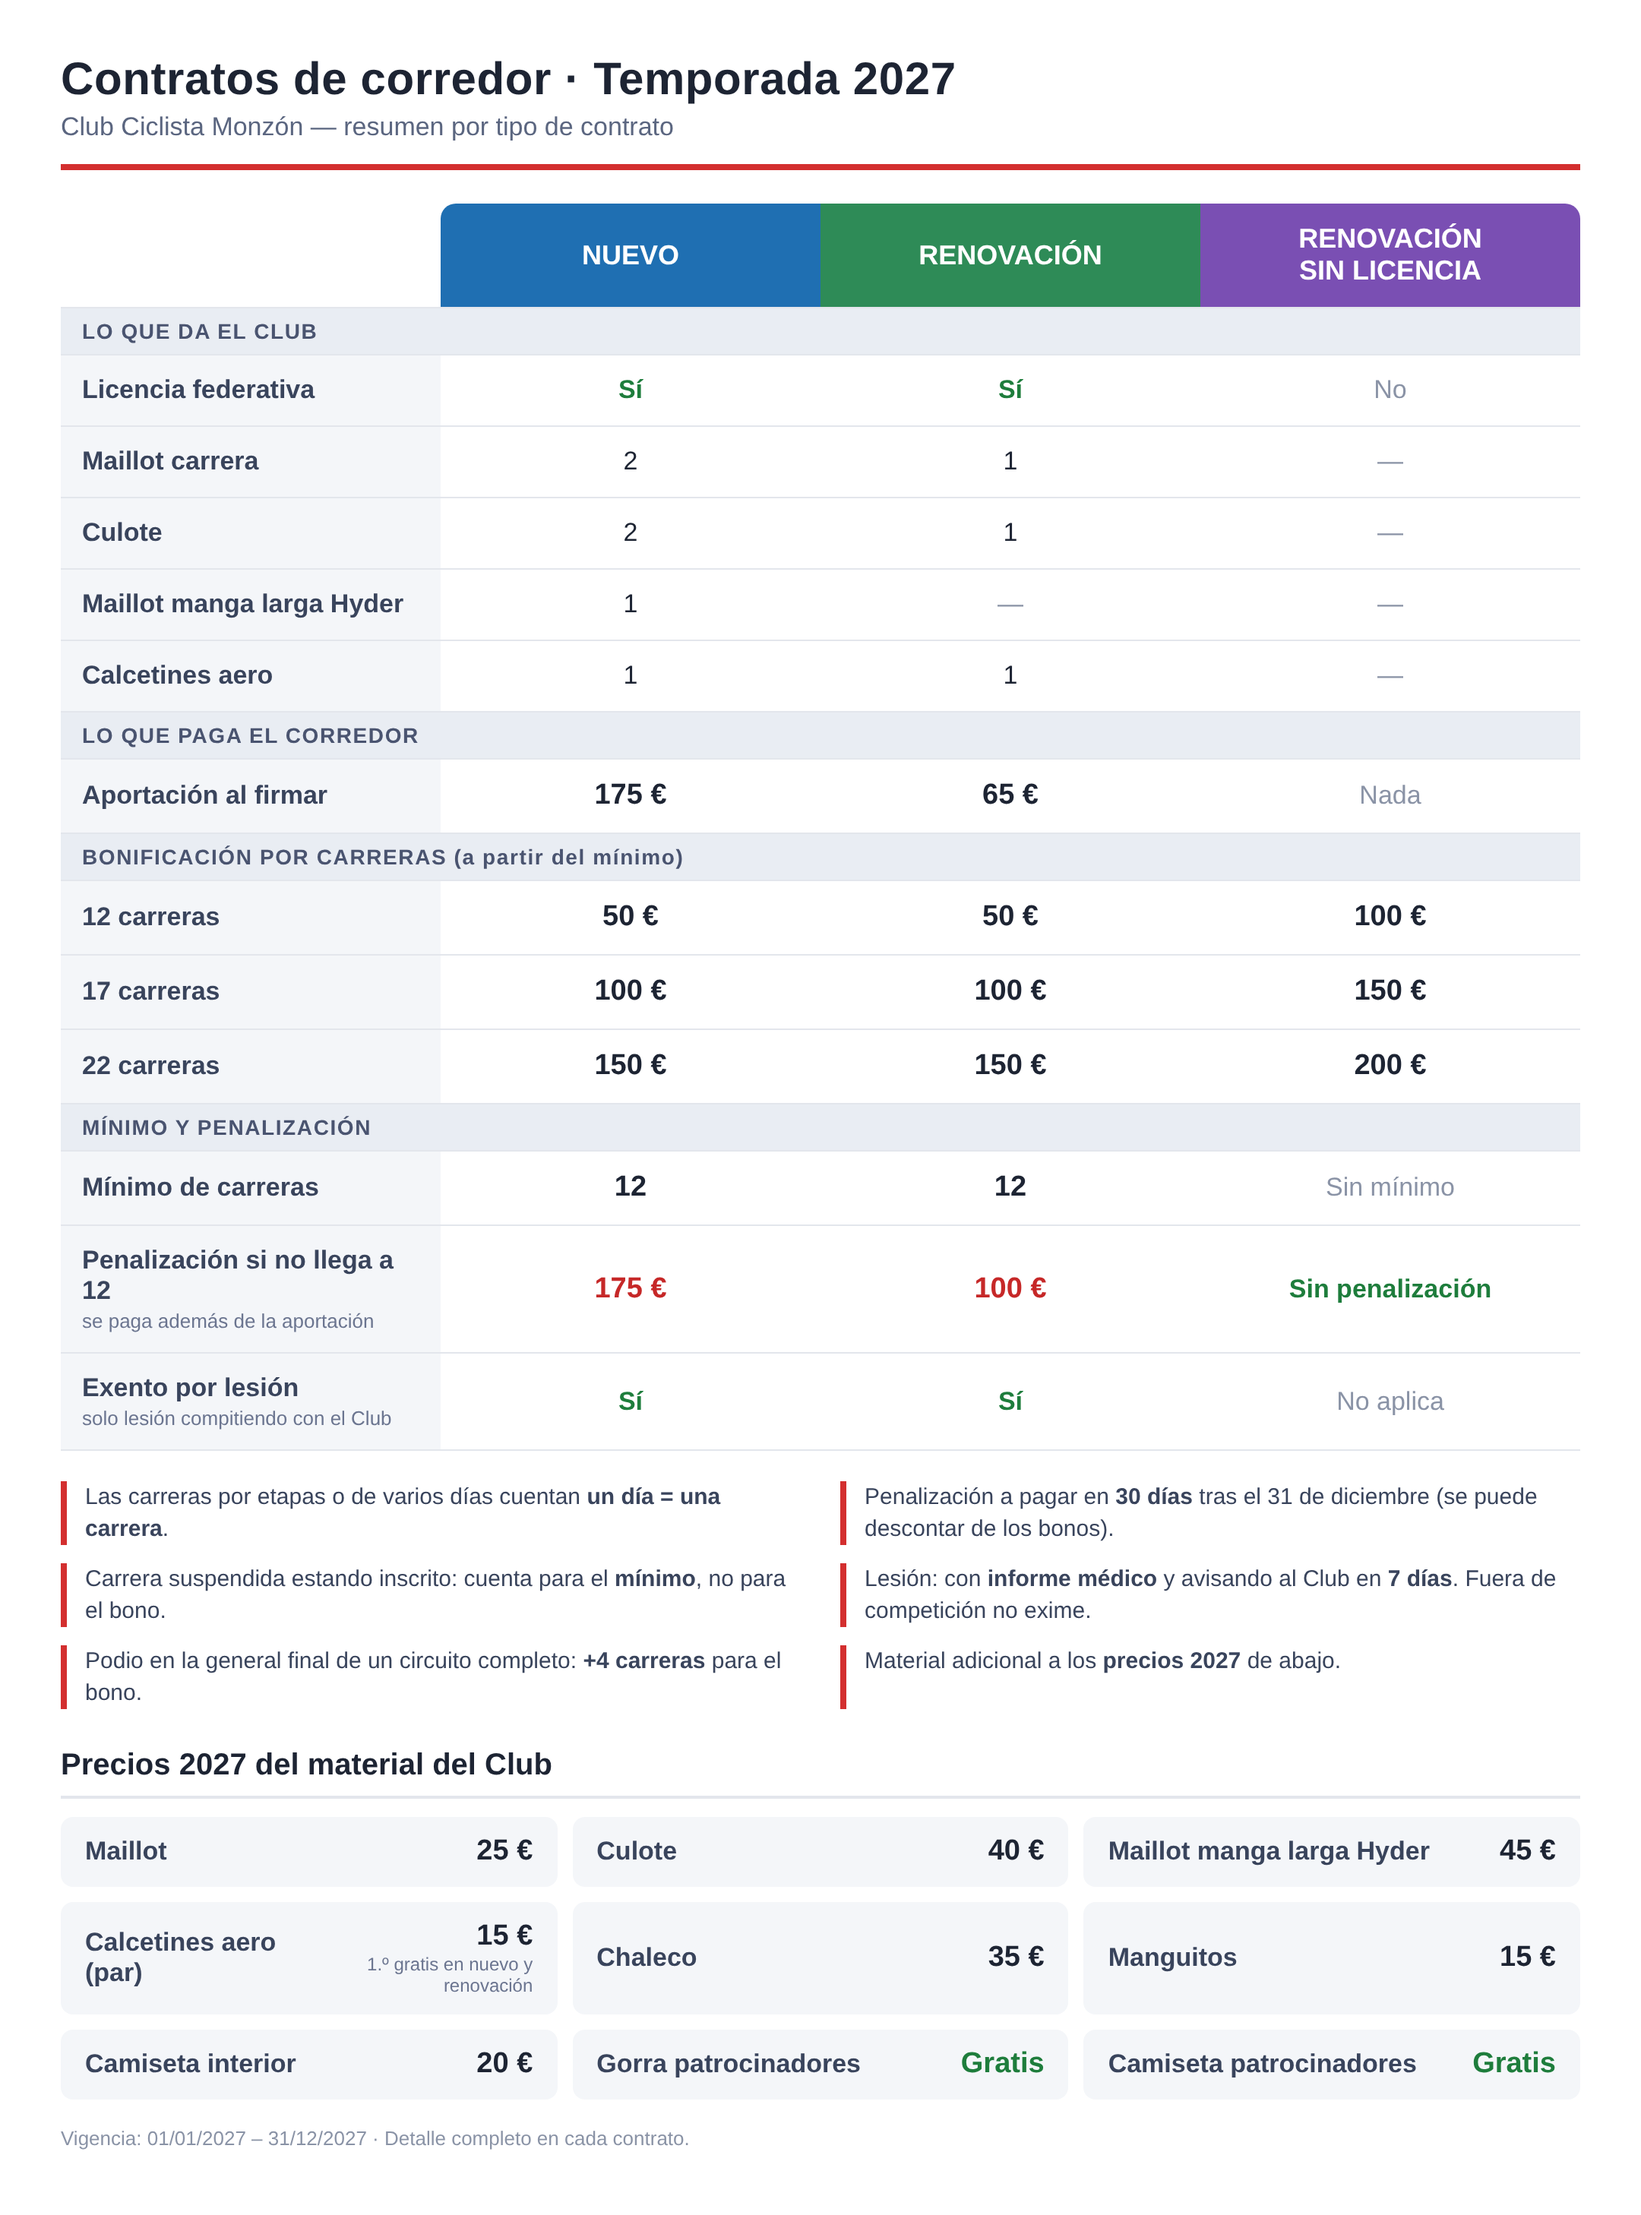
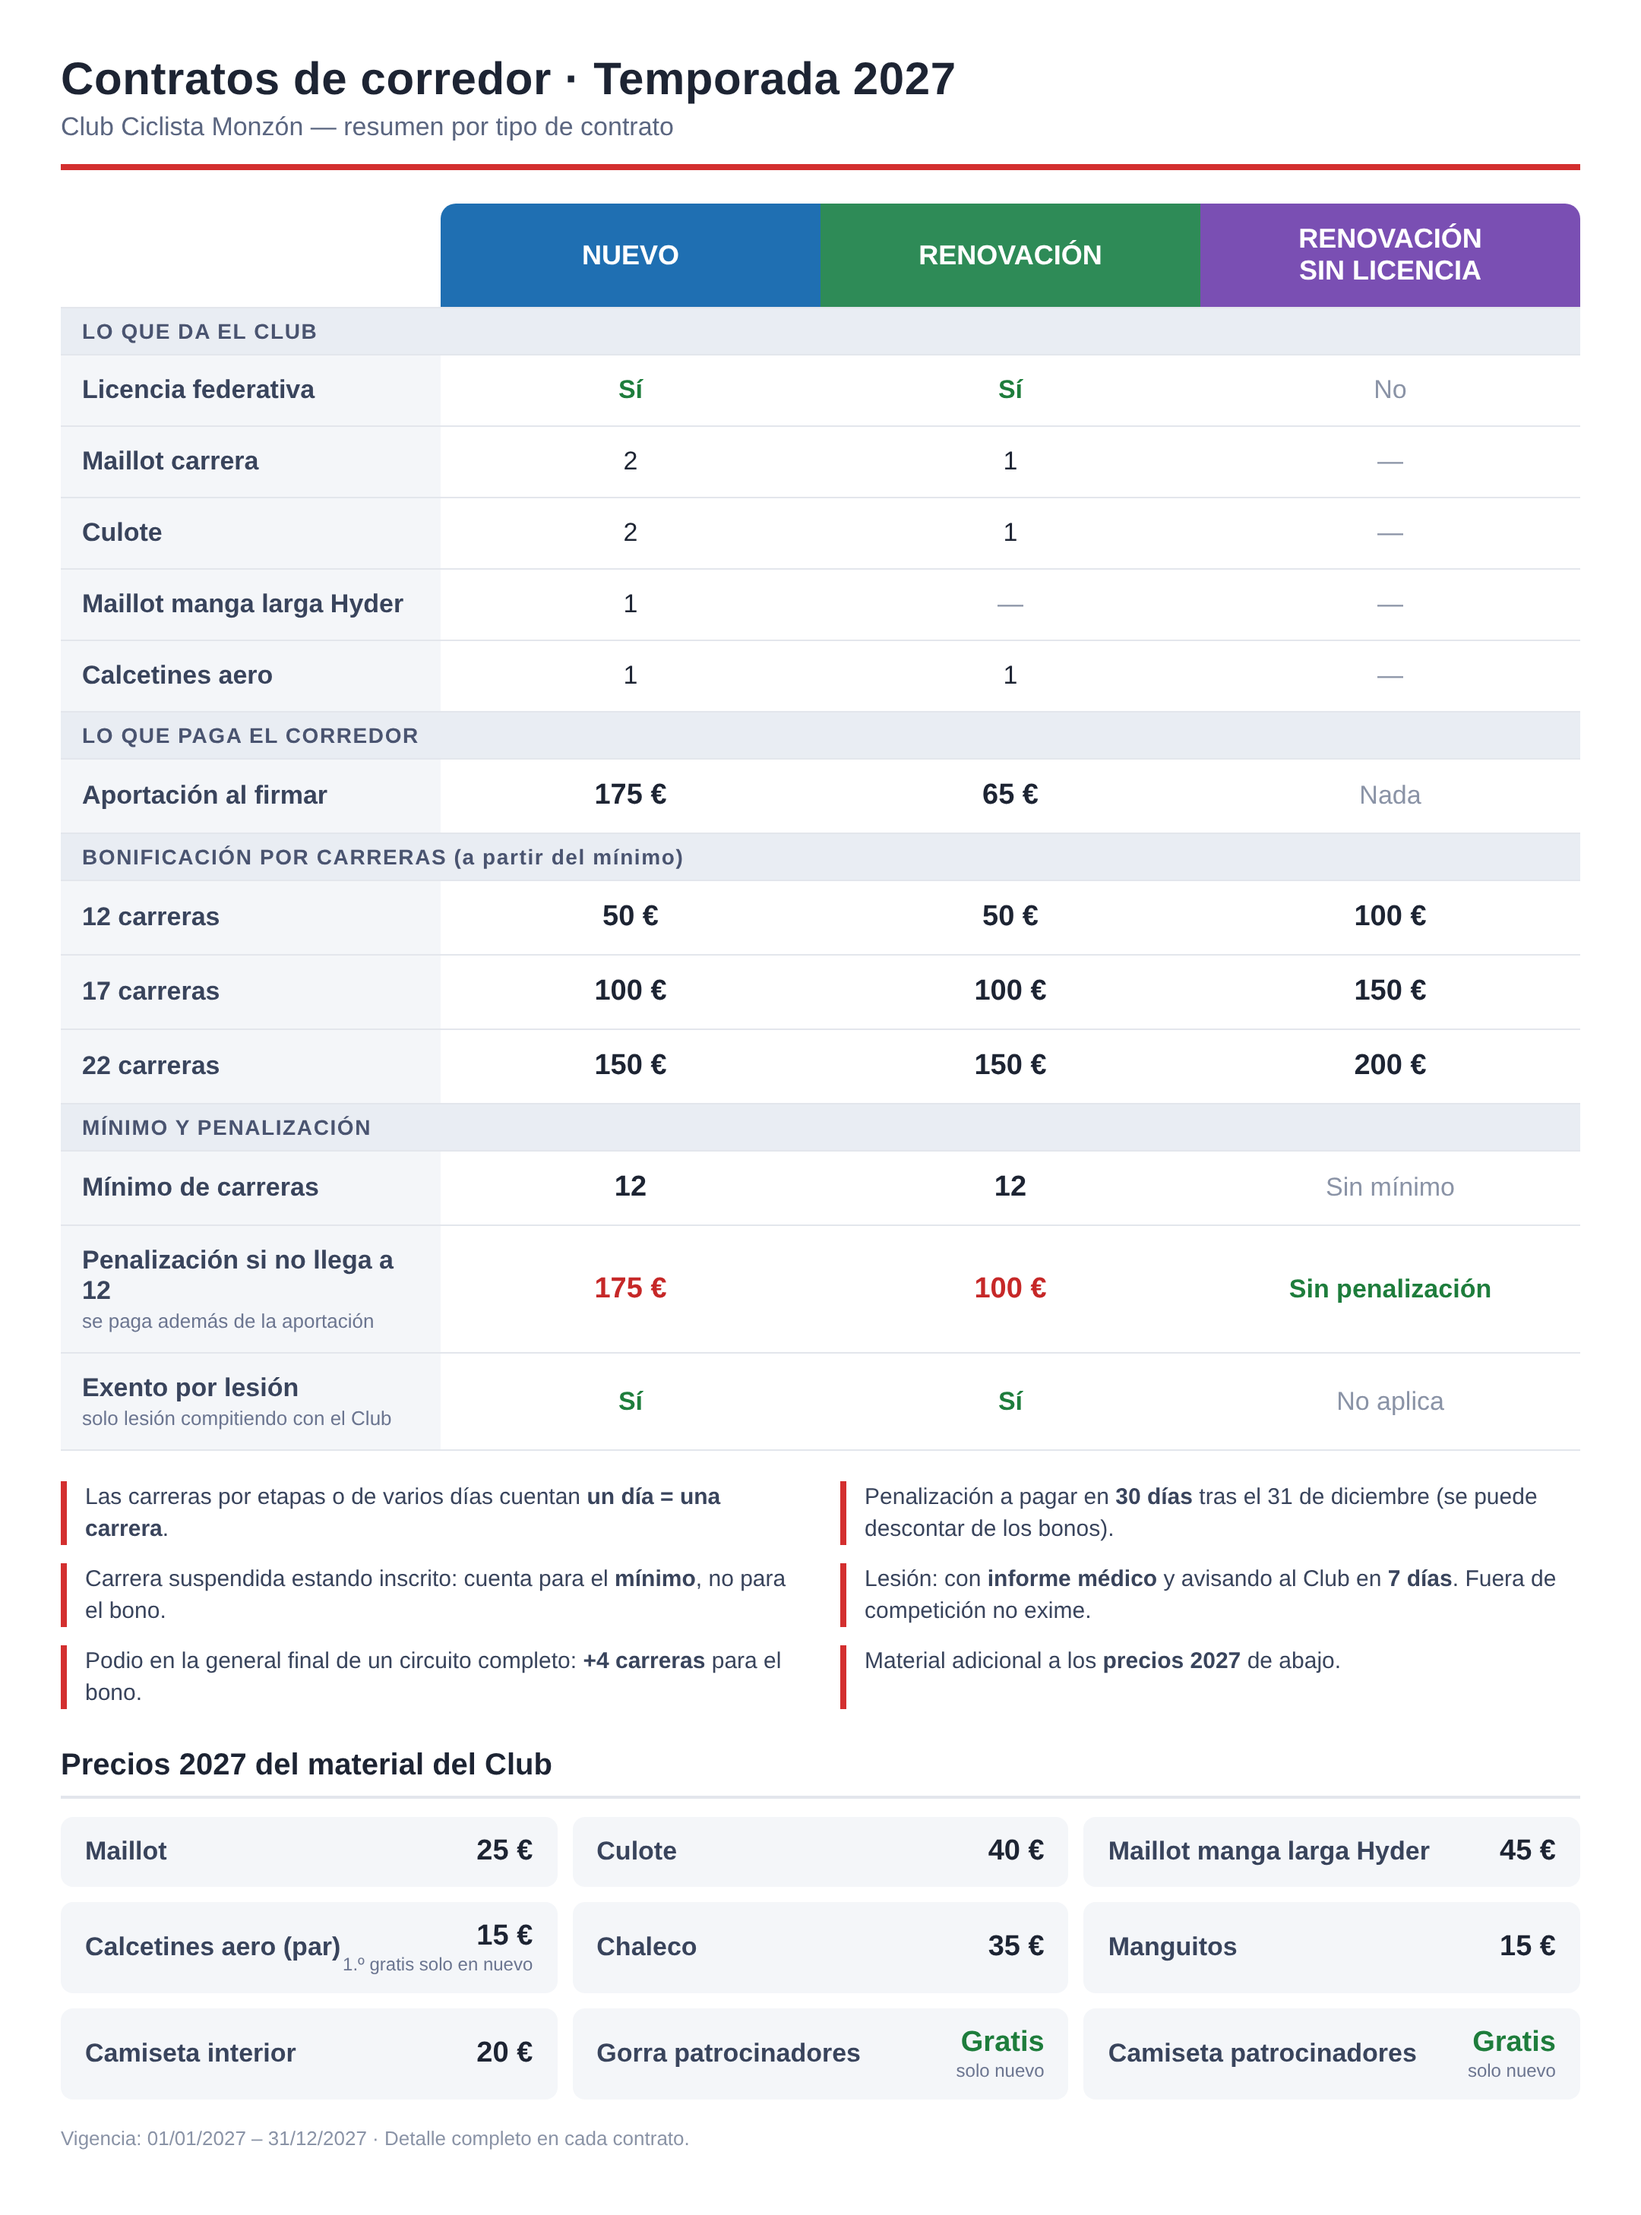
Contratos 2027: gorra, camiseta de patrocinadores y 1.er par de calcetines gratis solo en el contrato nuevo
Claude-Session: https://claude.ai/code/session_01K6kpA81o86cArr24SEaNxb

diff --git a/contratos/Acuerdo_Corredor_Renovacion_2027_CC_Monzon.html b/contratos/Acuerdo_Corredor_Renovacion_2027_CC_Monzon.html
@@ -51,10 +51,9 @@ table.precios td { padding: 3px 8px; }
 <li>Material adicional: el deportista podrá adquirir más prendas del Club a los precios de la temporada 2027 indicados a continuación.</li></ul>
 <table class="precios"><tr><th colspan="4">Precios 2027 del material del Club</th></tr>
 <tr><td>Maillot</td><td class="n">25 €</td><td>Culote</td><td class="n">40 €</td></tr>
-<tr><td>Maillot manga larga HYDER</td><td class="n">45 €</td><td>Calcetines aero (par)</td><td class="n">1.º gratis · 2.º 15 €</td></tr>
+<tr><td>Maillot manga larga HYDER</td><td class="n">45 €</td><td>Calcetines aero (par)</td><td class="n">15 €</td></tr>
 <tr><td>Chaleco</td><td class="n">35 €</td><td>Manguitos</td><td class="n">15 €</td></tr>
-<tr><td>Camiseta interior</td><td class="n">20 €</td><td>Gorra de patrocinadores</td><td class="n">Gratis</td></tr>
-<tr><td>Camiseta de patrocinadores</td><td class="n">Gratis</td><td></td><td></td></tr>
+<tr><td>Camiseta interior</td><td class="n">20 €</td><td></td><td></td></tr>
 </table>
 <ul><li>Se ayudará económicamente al corredor según el número de pruebas realizadas durante la temporada 2027. Siendo la bonificación:</li></ul>
 <table>

diff --git a/contratos/resumen.html b/contratos/resumen.html
@@ -66,12 +66,12 @@ tr.sec td { background: #e9edf3; text-align: left; font-weight: bold; font-size:
 <div><span>Maillot</span><b>25 €</b></div>
 <div><span>Culote</span><b>40 €</b></div>
 <div><span>Maillot manga larga Hyder</span><b>45 €</b></div>
-<div><span>Calcetines aero (par)</span><b>15 €<small>1.º gratis en nuevo y renovación</small></b></div>
+<div><span>Calcetines aero (par)</span><b>15 €<small>1.º gratis solo en nuevo</small></b></div>
 <div><span>Chaleco</span><b>35 €</b></div>
 <div><span>Manguitos</span><b>15 €</b></div>
 <div><span>Camiseta interior</span><b>20 €</b></div>
-<div><span>Gorra patrocinadores</span><b class="free">Gratis</b></div>
-<div><span>Camiseta patrocinadores</span><b class="free">Gratis</b></div>
+<div><span>Gorra patrocinadores</span><b class="free">Gratis<small>solo nuevo</small></b></div>
+<div><span>Camiseta patrocinadores</span><b class="free">Gratis<small>solo nuevo</small></b></div>
 </div>
 <p class="foot">Vigencia: 01/01/2027 – 31/12/2027 · Detalle completo en cada contrato.</p>
 </div></body></html>

diff --git a/contratos/Acuerdo_Corredor_Renovacion_sin_licencia_2027_CC_Monzon.html b/contratos/Acuerdo_Corredor_Renovacion_sin_licencia_2027_CC_Monzon.html
@@ -51,8 +51,7 @@ table.precios td { padding: 3px 8px; }
 <tr><td>Maillot</td><td class="n">25 €</td><td>Culote</td><td class="n">40 €</td></tr>
 <tr><td>Maillot manga larga HYDER</td><td class="n">45 €</td><td>Calcetines aero (par)</td><td class="n">15 €</td></tr>
 <tr><td>Chaleco</td><td class="n">35 €</td><td>Manguitos</td><td class="n">15 €</td></tr>
-<tr><td>Camiseta interior</td><td class="n">20 €</td><td>Gorra de patrocinadores</td><td class="n">Gratis</td></tr>
-<tr><td>Camiseta de patrocinadores</td><td class="n">Gratis</td><td></td><td></td></tr>
+<tr><td>Camiseta interior</td><td class="n">20 €</td><td></td><td></td></tr>
 </table>
 <ul><li>Se ayudará económicamente al corredor según el número de pruebas realizadas durante la temporada 2027. Siendo la bonificación:</li></ul>
 <table>
